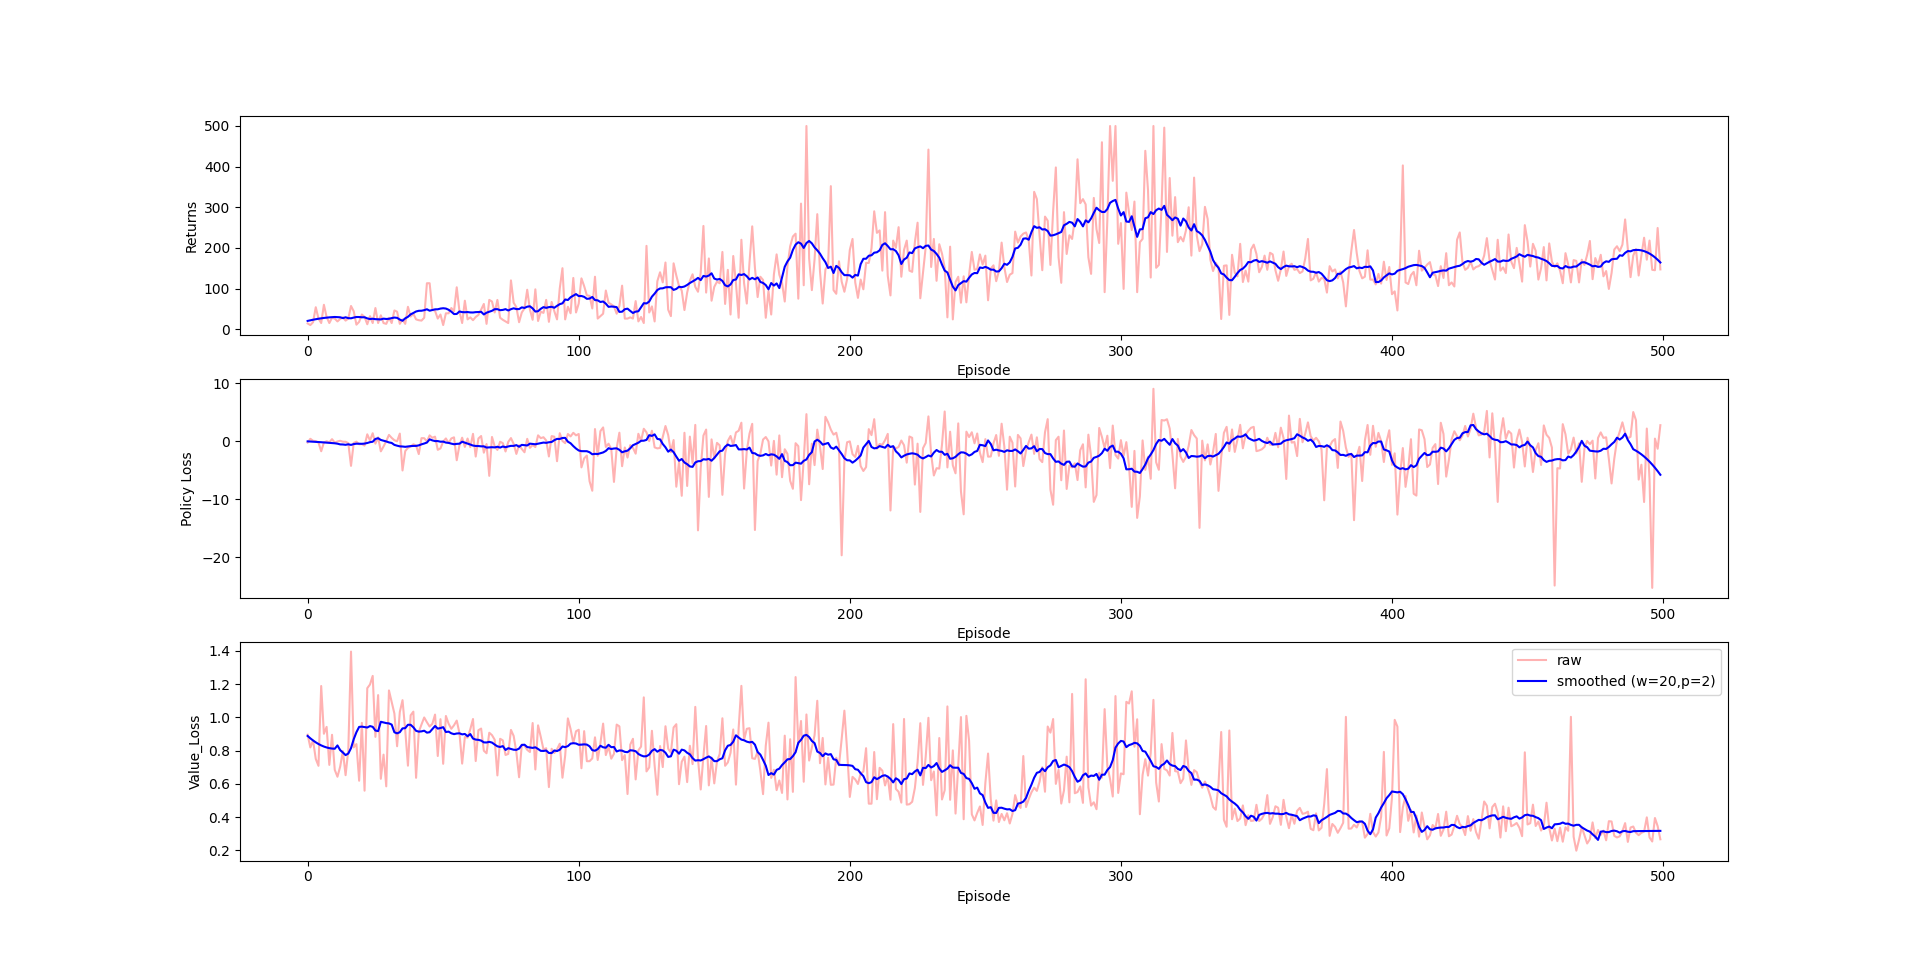
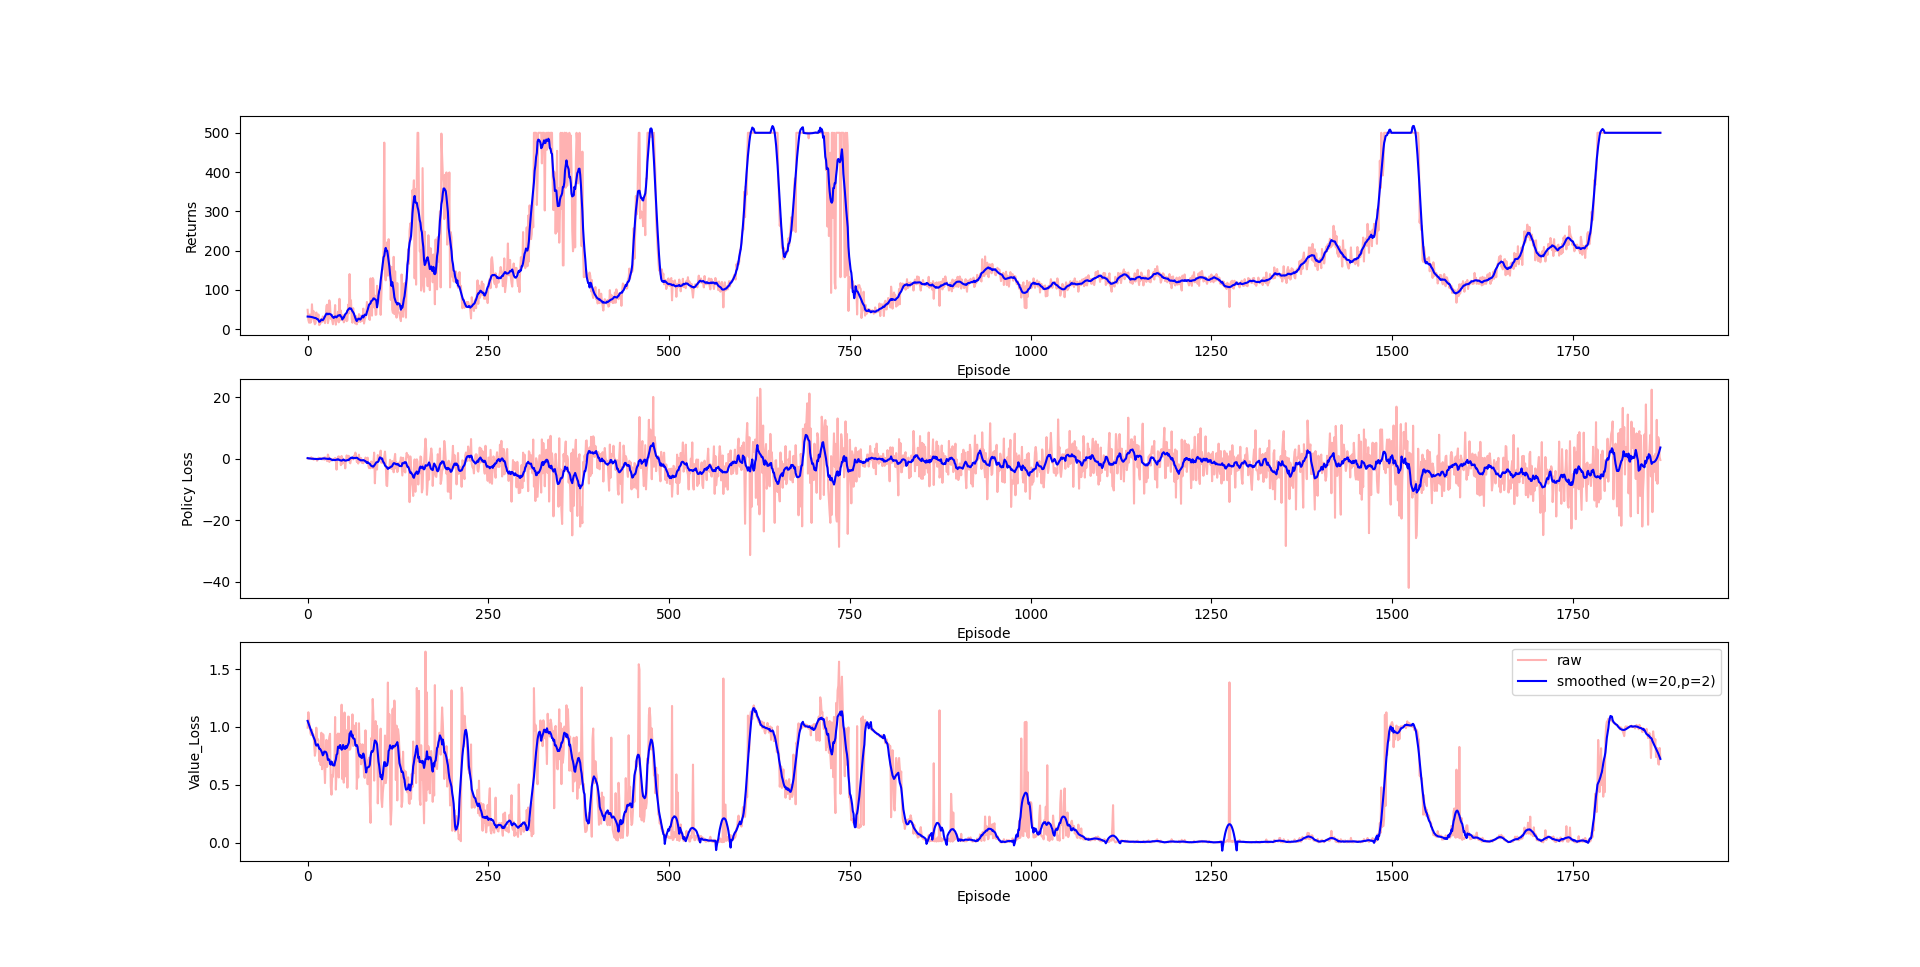
Added a stopping criterea. It is able to solve the problem withing~330 steps.

diff --git a/Assignments/BACM/src/actor_critic.py b/Assignments/BACM/src/actor_critic.py
@@ -1,6 +1,7 @@
 import gymnasium as gym
 import yaml
 import torch
+import numpy as np
 from tqdm import tqdm
 from pathlib import Path
 from agent import PolicyAgent, ValueAgent
@@ -52,26 +53,41 @@ def actor_critic(config: Config, env: gym.Env, save_plot: Path | None = None):
     policy_agent = PolicyAgent(config.agent, config.nn)
     value_agent = ValueAgent(config.agent, config.nn)
 
-    returns_history =  []
-    loss_history = {"Policy": [],
-                    "Value": []}
+    returns_history = []
+    loss_history = {"Policy": [], "Value": []}
     
-    with tqdm(range(config.run.n_episodes)) as pbar:
-        for episode in pbar:
+    total_steps = 0
+    max_steps = 10**6
+    episode = 0
+
+    with tqdm(total=max_steps, unit="steps") as pbar:
+        while total_steps < max_steps:
             policy_agent, value_agent = sample_monte_carlo(env=env, policy_agent=policy_agent, value_agent=value_agent)
             G_t = value_agent.G_t
-            policy_info = policy_agent.update(objectives=G_t)  # Contains loss, step, rewards
+            policy_info = policy_agent.update(objectives=G_t)
             value_info = value_agent.update()
+
+            episode_steps = policy_info["step"]
+            total_steps += episode_steps
+            episode += 1
 
             returns_history.append(policy_info["episode_return"])
             loss_history["Policy"].append(policy_info["loss"])
             loss_history["Value"].append(value_info["loss"])
 
+            mean_return = np.mean(returns_history[-100:])
+
             pbar.set_postfix(
                 policy_loss=f"{policy_info['loss']:.3f}",
                 value_loss=f"{value_info['loss']:.3f}",
-                episode_ret=f"{policy_info['episode_return']:.1f}"
+                episode=episode,
+                mean_return=mean_return,
             )
+            pbar.update(episode_steps)
+
+            if mean_return >= 475:
+                print(f"Solved at episode {episode}")
+                break
 
     training_info = {"Returns": returns_history, "Policy Loss": loss_history["Policy"], "Value_Loss": loss_history["Value"]}
     fig = plot_training(training_info, window=20, poly=2)

diff --git a/Assignments/BACM/src/agent.py b/Assignments/BACM/src/agent.py
@@ -71,7 +71,6 @@ class PolicyAgent:
             nn_cfg.output_dim,
             nn_cfg.features,
         )
-        self.beta = 0.01
         self.optimizer = self._build_optimizer(nn_cfg.optim)
         # Define arrays of rollout monte carlo
         self.log_probs: list[Tensor] = []
@@ -126,9 +125,7 @@ class PolicyAgent:
         objectives = (objectives - objectives.mean()) / (objectives.std() + 1e-8)
         assert T == len(objectives), f"T = {T}, len(G_T) = {len(objectives)}"
         log_probs = torch.stack(self.log_probs)
-        probs = torch.exp(log_probs)
-        entropy = -(probs*log_probs + (1-probs)*torch.log(1-probs)).sum()
-        loss = -1 * (log_probs * objectives).sum() - self.beta * entropy
+        loss = -1 * (log_probs * objectives).sum()
 
         loss.backward()
         self.optimizer.step()
